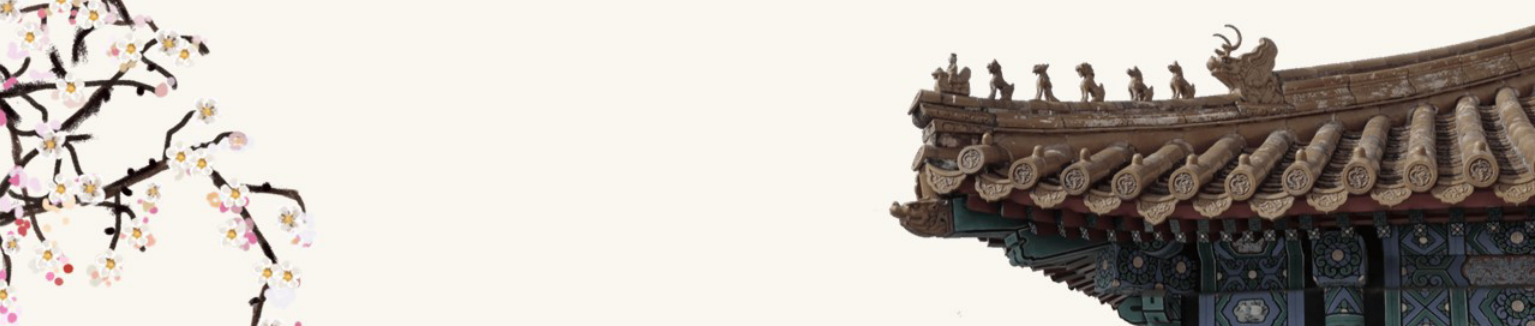
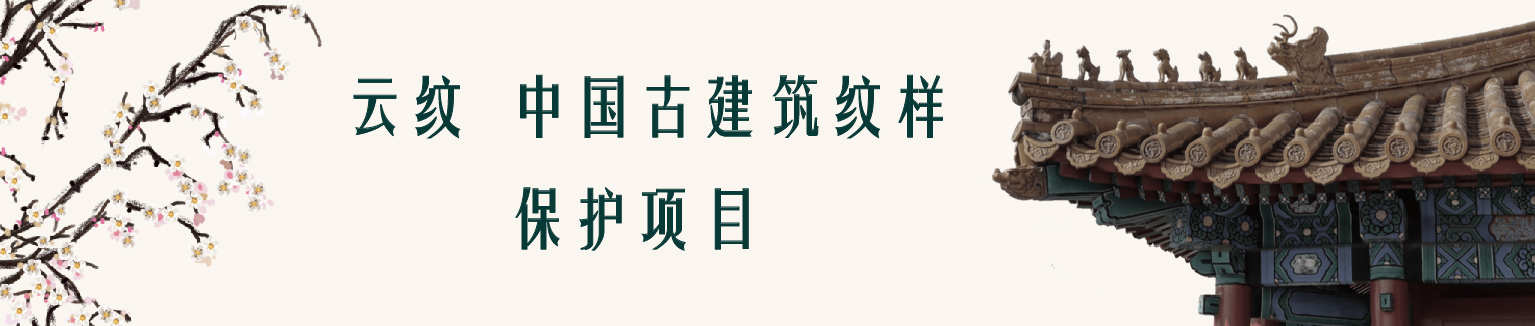
Add files via upload

diff --git a/about/about.html b/about/about.html
@@ -65,27 +65,16 @@ mask.onclick = function()
 
 <!--容器-->
 
-<div class="container">
-	
-	<div class="column">
-	<!--图片卡片 小组-->
-	</div>
-	
-	<div class="column">
-	<!--图片卡片 ikusuiko-->
-	<div class="unit">
-		<img class="unit_pic" src="ikusuiko.jpg">
-		<div class="unit_text_pic">
-		<br><br>
-		</div>
-	</div>
-	</div>
-	
-</div>
+
 	
 <div class="container2">
 	<div class="unit2">
-		<div class="unit_text_normal">
+		<div class="unit_text_normal">关于我们</br>
+	    </br>
+			古建筑构建上的纹样是构成古建筑不可分割的一部分。
+			我们通过照片、拓印、三维激光深度扫描、三维建模、3d打印、硅胶翻模、水泥等新型材料模具砌筑等工艺方法，
+			对古建筑纹样进行数字化、现代化的保护和发展。</div>
+		<div class="unit_text_normal"></div>
 		</div>
 	</div>
 </div>
